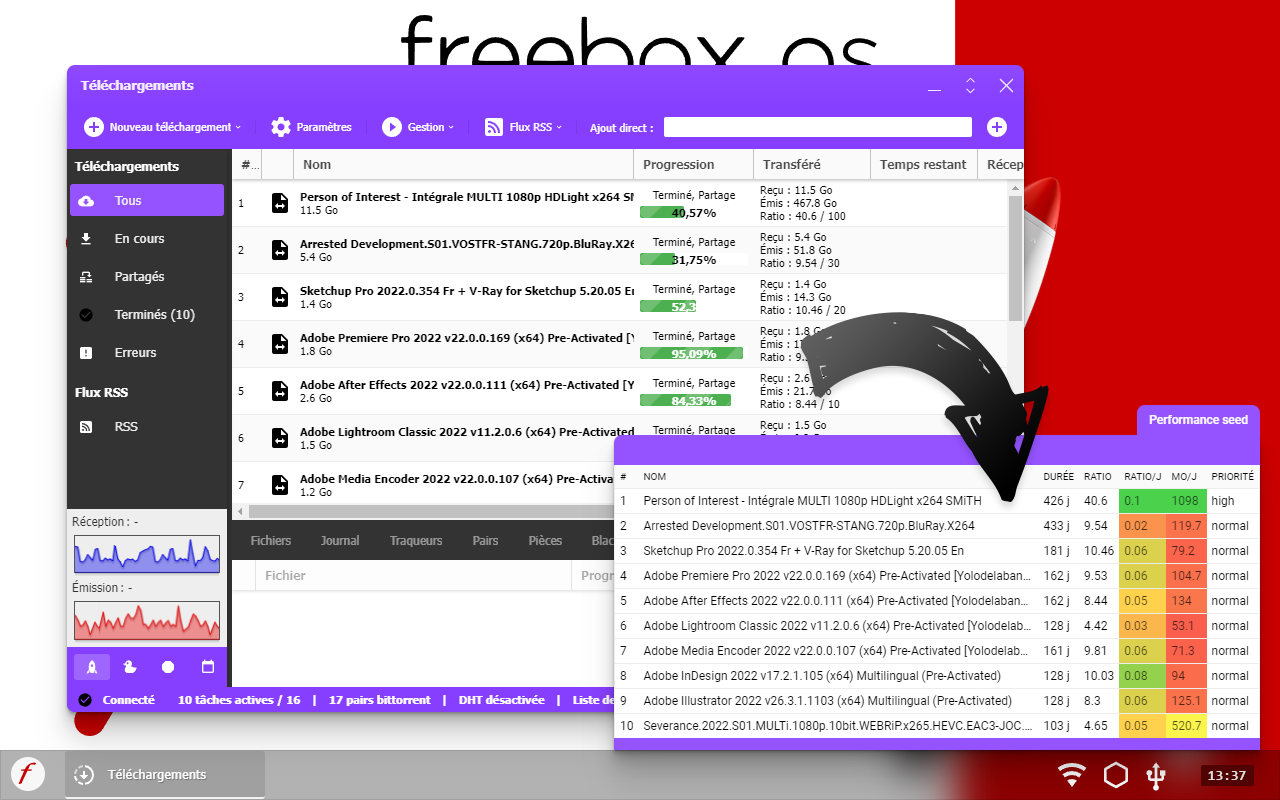
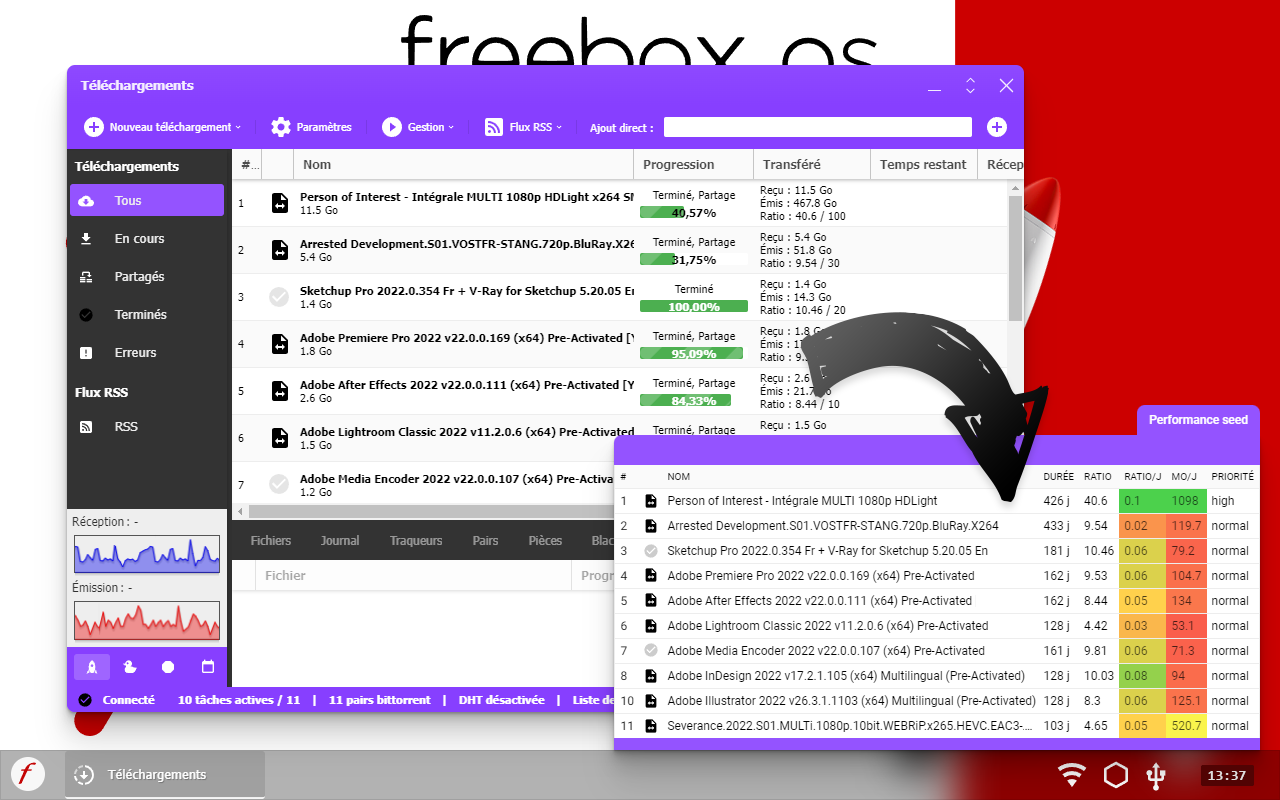
update README.md

diff --git a/README.md b/README.md
@@ -24,9 +24,7 @@ Les deux principales informations supplémentaires pour chaque torrent sont :
 - le volume de ratio par jour (moyenne)
 - le volume de données partagés par jour (moyenne)
 
-Une échelle de couleur permet de rapidement voir les torrents les plus performants. Seuls les torrent en seed actifs sont affichés dans le tableau. Le tableau se met à jour toutes les minutes quand il est ouvert.
-
-![](images/update.gif) _Notification de mise à jour_
+Une échelle de couleur permet de rapidement voir les torrents les plus performants. Le tableau se met à jour toutes les 2 secondes quand il est ouvert.
 
 ### Vie privée
 
